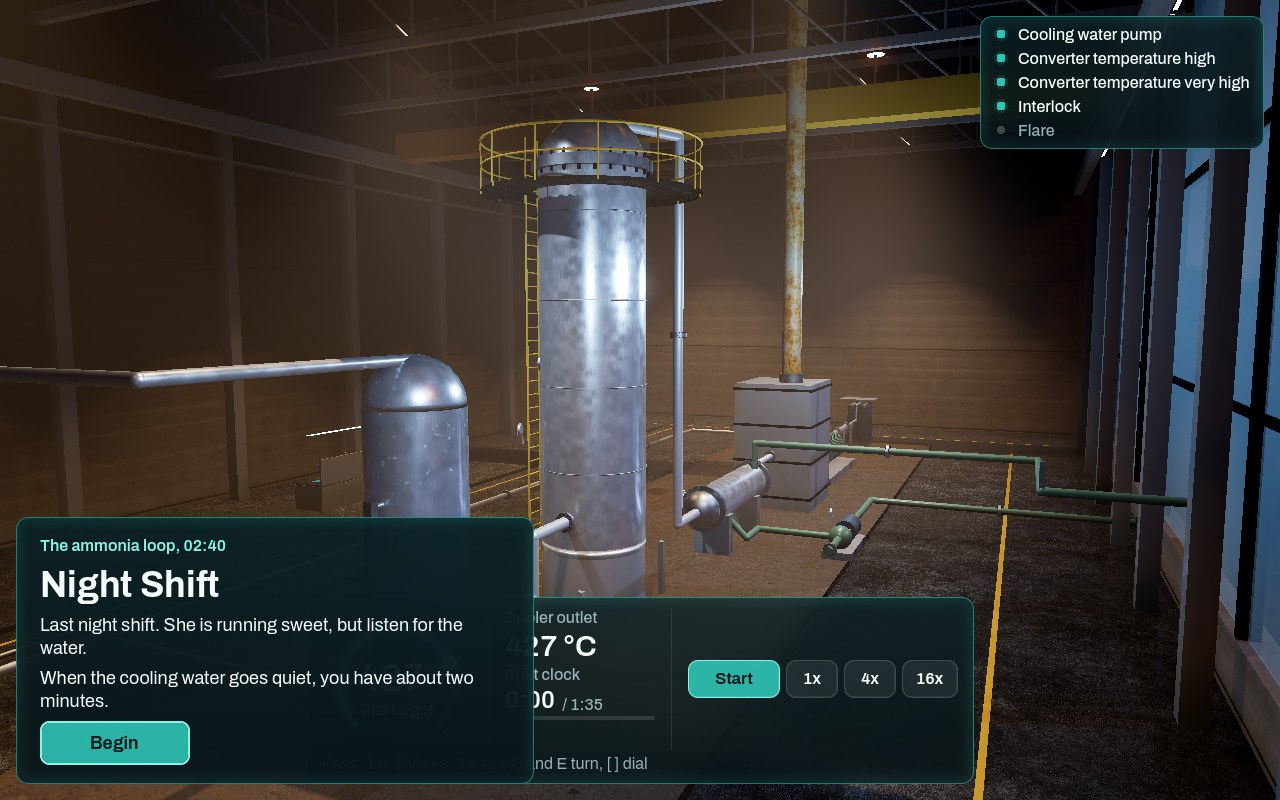
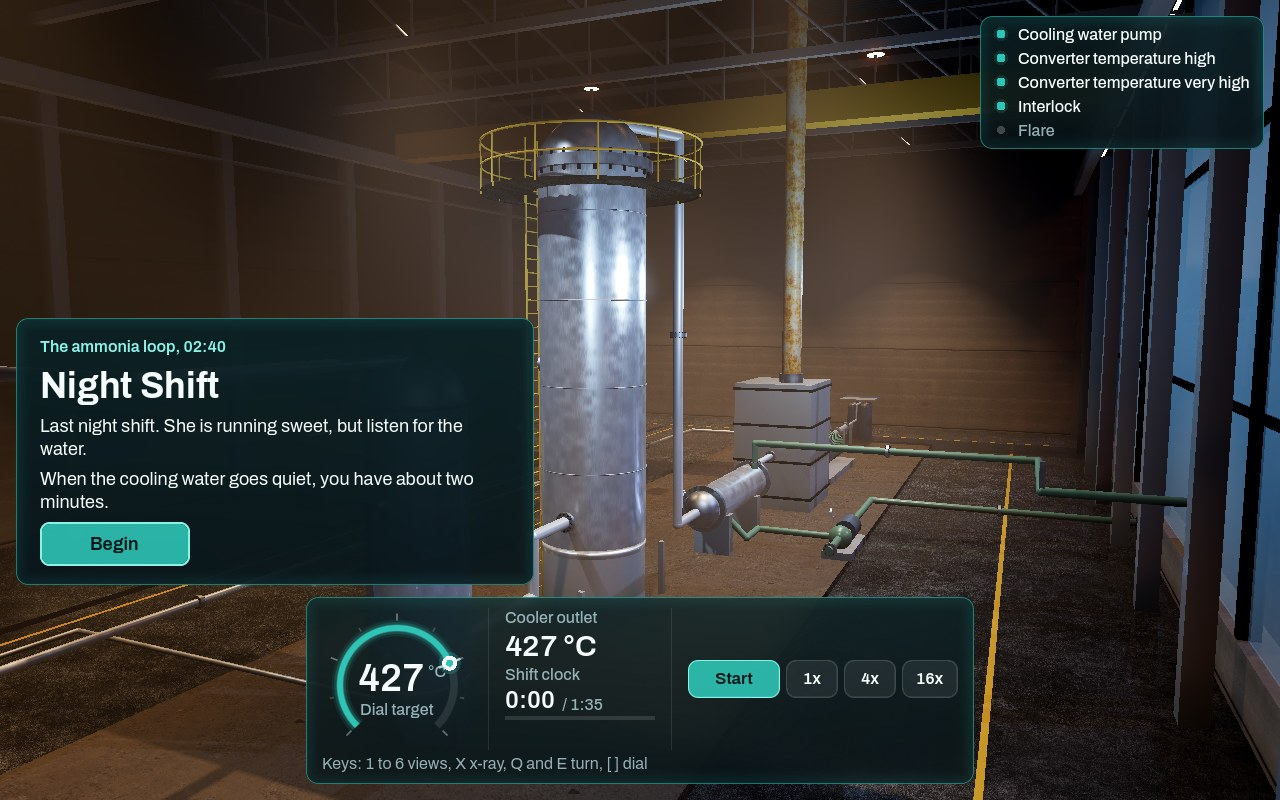
LOOK2 round 2: critics' scores and the fix pass, retaken shots, compat L14 frame time
Claude-Session: https://claude.ai/code/session_01LLtMdbo6QrqLGE18L1gpTt

Changed region(s): [[0.0, 0.375, 0.4375, 1.0]]

diff --git a/docs/LOOK2.md b/docs/LOOK2.md
@@ -124,7 +124,7 @@ Scope from the studio manager, in order: the fantasy (L14 private lab), panels o
 |---|---|---|---|
 | L00 opening | 26.6 | 28.3 | 37.6 |
 | L00 outside | 18.3 | 18.3 | 54.7 |
-| L14 opening | 20.6 | 21.4 | 48.7 |
+| L14 opening | 25.1 | 25.8 | 39.9 |   (after the compat fill light; 20.6 ms without it)
 
 Traded on compat: no SDFGI, SSR, SSIL, SSAO, volumetric fog or shadows; distance fog instead; no reflection probe; far omni lights off (emissive bulbs stay); outdoor structure hidden; particles at 30 %; 3D at 60 % with FSR, HUD at full resolution. Phase A was 30.0 ms at the same view.
 
@@ -133,5 +133,15 @@ Traded on compat: no SDFGI, SSR, SSIL, SSAO, volumetric fog or shadows; distance
 **Tests.** 44 of 44 Godot flows OK, look2_flow 49 checks (L00 and L14), layout_flow 0 failures. Engine (src/) unchanged against master.
 
 **Evidence (round 2).** docs/look2/r2-*.jpg and docs/look2/flask-shift-10s.mp4 (book, halve V, run, argon at constant P, on the 4090 at 1080p, 30 fps).
+
+**Critique (round 2, new shots only, scored once).**
+
+| Critic | Score | Phase A | Strongest point |
+|---|---|---|---|
+| Sigrid (art) | 5 | 4 | L00 reads as a real plant but in uniform amber haze; L14 is a stage in a black void, not a boy's lab; vessels wear the same blotch noise |
+| Mateo (design) | 4 | - | Still an exam: "Exam Bridge", a textbook problem, a coach giving orders, a +/- form that beats the wheels; fixed K makes the heater a dead verb |
+
+Fixed after scoring (one pass): heater band moved below the glass and a light box put behind the cylinder (Sigrid: brown only reads against white); NO2 coverage curve for linear blending (the gas was faint); compat fill light on the dais (L14 compat was near black); brief above the command panel at 1280x800 (that overlap in her shots predates the fix).
+Not fixed, for phase B: Mateo's fantasy and control points (retitle and reframe L14 as the player's own question, wheels and a RUN lever as the only controls, a twin reference flask, real K so heat drives the colour, open challenges that add apparatus to the hall); Sigrid's material pass (steel and cladding instead of blotch noise, a real fired heater), a darker L00 night, an establishing L14 view with real depth and fewer neon strips.
 
 **Not done.** The "dial has no cost" level-design finding is for the phase B gate. Real-mouse drags and hover expansion are tested by synthetic events only. The L14 end card and retry were not played through.
